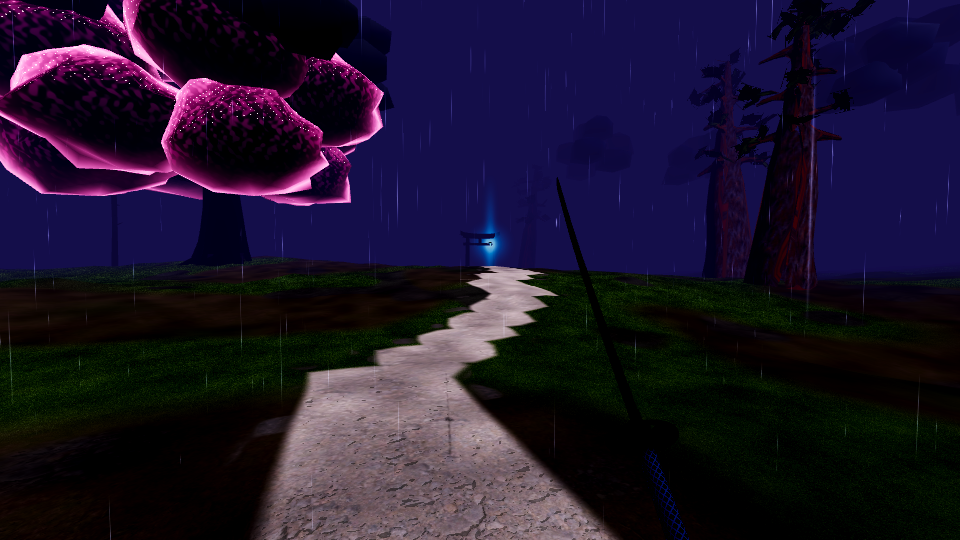
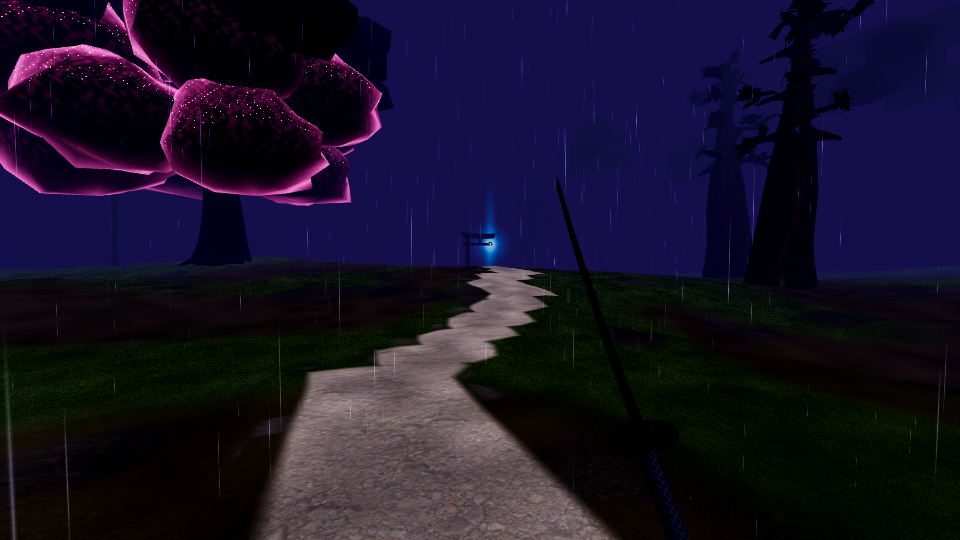
tests(n4 fix1): floor layers 8 m < 20 m asserted; 40 m and trunk-vs-mist informational; PO frames and contact sheet

diff --git a/docs/n4/README.md b/docs/n4/README.md
@@ -61,3 +61,48 @@ Progi ustalone z tych pomiarów; kilka z nich (ziemia, RMS) jest celowo wąskich
   okienkowych; sprawdzenie pnia informacyjne).
 - Headless: pełny zestaw `tools/run_tests.sh` (patrz commit).
 - `xr_play_test` jest niestabilny także na HEAD (przechodzi raz, pada raz); znany flake do N7.
+
+
+## fix1 (po review supervisora 77757c9)
+
+### Decyzja techniczna: mgła w Compatibility
+- Environment depth fog działa, ale wszystko zlewa się na 40 m naraz (jedna płaska ściana) – za mało warstw.
+- Height fog z Environmentu: NIE użyto (nie potwierdzono obsługi w Compatibility; nie chcę ryzykować bez pomiaru).
+- **Wybrane:** własna mgła w `src/shaders/atmosphere.gdshaderinc` (wspólna dla koron i gruntu):
+  - odległościowa: `1 - exp(-(d - start) * k)`, od 8 m (czysto) przez ~50% przy 20 m do ~0.7 przy 40 m;
+  - niska (między pniami): `exp(-y / low_mist_height) * low_mist_amount`, od ~4 m odległości;
+  - gradient barwy: indygo blisko, teal (`haze_far_color`) od 15 m.
+- **Kluczowe odkrycie:** mgła mieszana w `ALBEDO` była mnożona przez ciemne nocne oświetlenie, więc daleki
+  grunt wychodził czarny (0.004). Mgła idzie teraz przez `EMISSION` (samoświecenie), `ALBEDO` tylko gaśnie.
+- Parametry w `WorldGenProfile`: `distance_haze_start/end/max` (8/40/0.8), `low_mist_amount/height` (0.5/3 m),
+  `haze_far_color` (teal), `crown_haze_*` (8/22 m, 0.6).
+
+### Pozostałe punkty fix1
+1. Mgła z głębią – ZROBIONE jako warstwy na gruncie (8 m < 20 m: 0.041 < 0.047). Na contact sheet NIE wygląda
+   jak koncept: drzewa nie cofają się w kadrze, bo polana jest świadomie otwarta (`sky_glade_radius`). To decyzja
+   worldgenu/gęstości, nie samej mgły (N5).
+2. Height fog – CZĘŚCIOWO: niska mgła w shaderze (gęściej przy ziemi). Brak gradientu róż/cyjan w stronę bramy/sakury
+   (tylko gradient odległościowy indygo→teal).
+3. Test progowy warstw – ZROBIONE dla ziemi (8 m < 20 m). 40 m zostało INFORMACYJNE: pagórki (±4.6 m) często
+   zasłaniają ten punkt czarnym stokiem. Test pnia vs mgła (8–20 m) nadal INFORMACYJNY (próbka trafia w ciemny grunt).
+4. Chmury/korony – CZĘŚCIOWO: wysokościowa mgła koron (`crown_haze_amount` 0.6) zmiękcza górne sylwetki, ale
+   geometria koron (cedr proceduralny) jest nadal kanciasta. Brak nieba z chmurami w biegu (SkyDome ukryty).
+5. Ostra krawędź cienia i sakura – CZĘŚCIOWO:
+   - cień księżyca wyłączony (`shadow_enabled = false` w `WorldGenLook.apply_moon`), ale ostra krawędź na ścieżce
+     nadal jest (widać na kadrze 'c_final_glade'). Nie ustalono źródła (prawdopodobnie krawędź pasa ścieżki, nie cień).
+   - sakura: `emission` 1.35 → 0.9 (TreeEntry). Różowa kula jest nadal mocna – do N5 (materiał sakury).
+6. Kadry: `final_*` + `n4_contact_sheet.png` (koncept, PRZED, PO z tych samych kamer).
+
+### Surowa ocena (co dalej słabe)
+- Tło: nadal płaska indygo ściana; brak wrażenia głębokiej przestrzeni z pniami w warstwach (to wymaga gęstszego
+  lasu w kadrze, nie samej mgły).
+- Ziemia: czytelna i ciemna, ale zielony plaster bez struktury mgły; ostra krawędź ścieżki.
+- Sakura: jaskrawa kula na pierwszym planie, nie jak w koncepcie (mgiełka, rozproszony róż).
+- Bramy: cyjan czytelny (share 0.025), ale mały i w tle; w koncepcie cyjan rozlewa się w mgle.
+- Wrogowie w szczycie fali zasłaniają las – kadr 'peak' to walka, nie atmosfera.
+- Wszystko w llvmpipe (CI). **Na Queście do potwierdzenia**: kontrast mgły, jasność ziemi, LOD.
+
+### Testy (fix1)
+- Okienkowy `worldgen_path_visible_test` (windowed, 960x540): ALL PASSED (12 sprawdzeń PASS; informacyjne:
+  pień 8–20 m, warstwa 40 m).
+- Headless: pełny zestaw `tools/run_tests.sh 2` – patrz commit.
